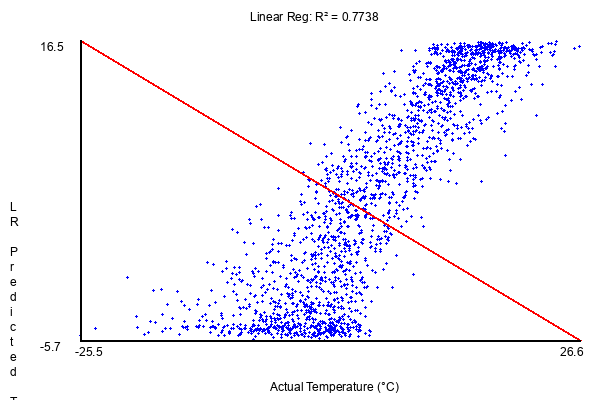
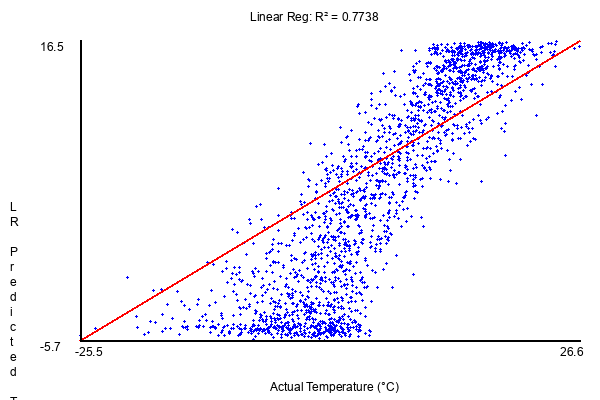
Updates

diff --git a/workbook/ch08/ai/ml/mlp/uppsala_tm_1722-2022/mlp.py b/workbook/ch08/ai/ml/mlp/uppsala_tm_1722-2022/mlp.py
@@ -284,10 +284,11 @@ def create_scatter_plot(x_data, y_data, title, xlabel, ylabel, width=600, height
         x, y = int(x_plot[i]), int(y_plot[i])
         draw.ellipse([x-1, y-1, x+1, y+1], fill='blue')
     
-    # Draw diagonal line (perfect prediction)
+    # Draw diagonal line (perfect prediction) - FIXED
+    # Perfect prediction line should go from bottom-left to top-right
     x_min, x_max = margin_left, margin_left + plot_width
-    y_min, y_max = margin_top + plot_height, margin_top
-    draw.line([x_min, y_max, x_max, y_min], fill='red', width=2)
+    y_max, y_min = margin_top + plot_height, margin_top  # Note: y_max is bottom, y_min is top
+    draw.line([x_min, y_max, x_max, y_min], fill='red', width=2)  # Bottom-left to top-right
     
     # Draw axes
     draw.line([margin_left, margin_top, margin_left, margin_top + plot_height], fill='black', width=2)
@@ -328,7 +329,8 @@ def create_line_plot(x_data, y_data, title, xlabel, ylabel, width=600, height=40
     
     # Normalize data to plot area
     x_plot = normalize_data(x_data, margin_left, margin_left + plot_width)
-    y_plot = normalize_data(y_data, margin_top + plot_height, margin_top)
+    # FIXED: Invert the y-axis mapping so higher values appear at top, lower at bottom
+    y_plot = normalize_data(y_data, margin_top, margin_top + plot_height)
     
     # Draw line
     points = [(int(x_plot[i]), int(y_plot[i])) for i in range(len(x_plot))]
@@ -342,6 +344,23 @@ def create_line_plot(x_data, y_data, title, xlabel, ylabel, width=600, height=40
     # Add labels
     draw.text((width//2 - 50, 10), title, fill='black', font=font)
     draw.text((width//2 - 30, height - 20), xlabel, fill='black', font=font)
+    
+    # Y-axis label (rotated text approximation)
+    y_label_y = height // 2
+    for i, char in enumerate(ylabel):
+        draw.text((10, y_label_y + i * 15), char, fill='black', font=font)
+    
+    # Add axis values - FIXED: Update to match the corrected y-axis
+    x_min_val, x_max_val = np.min(x_data), np.max(x_data)
+    y_min_val, y_max_val = np.min(y_data), np.max(y_data)
+    
+    # X-axis labels
+    draw.text((margin_left - 5, margin_top + plot_height + 5), f'{x_min_val:.1f}', fill='black', font=font)
+    draw.text((margin_left + plot_width - 20, margin_top + plot_height + 5), f'{x_max_val:.1f}', fill='black', font=font)
+    
+    # Y-axis labels (corrected: min at bottom, max at top)
+    draw.text((margin_left - 40, margin_top + plot_height), f'{y_min_val:.4f}', fill='black', font=font)  # Bottom = min
+    draw.text((margin_left - 40, margin_top), f'{y_max_val:.4f}', fill='black', font=font)  # Top = max
     
     return img
 

diff --git a/workbook/ch08/ai/ml/mlp/uppsala_tm_1722-2022/README.md b/workbook/ch08/ai/ml/mlp/uppsala_tm_1722-2022/README.md
@@ -1,0 +1,118 @@
+
+## MLP and Linear Regression
+
+The provided Python code implements a machine learning pipeline for predicting temperature using
+a *Multilayer Perceptron* (MLP) and *Linear Regression*, applied to a temperature dataset (in
+this case real). The pedagogical value lies in its comprehensive demonstration of key machine
+learning concepts, data preprocessing, model evaluation, and visualisation techniques. 
+(Also see [linear regression](./../../linear/).)
+
+The temperature data used in this project comes from the official long-term temperature series
+for Uppsala, Sweden, maintained by the Swedish Meteorological and Hydrological Institute (SMHI):
+https://www.smhi.se/data/temperatur-och-vind/temperatur/uppsalas-temperaturserie
+
+Additional historical background, including commentary on the data’s continuity and adjustments
+over time, is available here: http://celsius.met.uu.se/default.aspx?pageid=31
+
+You may recognise the name Celsius as the unit of temperature measurement. Anders Celsius, the
+Swedish astronomer and physicist who proposed the Celsius scale, was also actively involved in
+early temperature measurements in Uppsala, where he lived and worked. The temperature series
+from Uppsala is one of the longest continuous records in the world and has been used in numerous
+studies of historical climate trends.
+
+
+### Multilayer Perceptron (MLP)
+
+- *Definition*: An MLP is a type of artificial neural network consisting of multiple layers of
+  interconnected nodes (neurons). It includes an input layer, one or more hidden layers with
+  non-linear activation functions (e.g., ReLU), and an output layer. MLPs are used for both
+  regression and classification tasks.
+
+- *How It Works*:
+  - *Input Layer*: Takes the feature vector (e.g., year, month, day_of_year, etc.).
+  - *Hidden Layers*: Apply weighted transformations and non-linear activations to capture
+    complex patterns in the data.
+  - *Output Layer*: Produces a single value for regression (e.g., predicted temperature).
+  - *Training*: Uses backpropagation and an optimiser (e.g., Adam) to minimize a loss function
+    (e.g., MSE) by adjusting weights.
+
+- *Key Features*:
+  - Can model non-linear relationships, making it suitable for complex datasets.
+  - Requires careful tuning of hyperparameters (e.g., number of layers, neurons, learning rate).
+  - Prone to overfitting, mitigated by techniques like dropout and early stopping.
+
+- *In the Code*: The MLP is implemented with three hidden layers (64, 32, 16 neurons), ReLU activation,
+  dropout for regularisation, and early stopping to prevent overfitting. It’s trained on scaled features
+  to predict temperature.
+
+
+### Linear Regression
+
+- *Definition*: Linear Regression is a statistical model that predicts a continuous output variable
+  as a linear combination of input features. It assumes a linear relationship between features and the target.
+
+- *How It Works*:
+  - Fits a line (or hyperplane in higher dimensions) to the data by minimising the sum of squared errors.
+  - Model equation: $y = w_0 + w_1x_1 + w_2x_2 + \dots + w_nx_n$, where $w_i$ are weights, $x_i$ are features,
+    and $y$ is the predicted value.
+  - Coefficients ($w_i$) indicate feature importance.
+
+- *Key Features*:
+  - Simple, interpretable, and computationally efficient.
+  - Limited to linear relationships, so it may underfit complex data.
+  - Less prone to overfitting compared to MLPs.
+
+- *In the Code*: Linear Regression is used as a baseline model, trained on the same scaled features as the
+  MLP. Its coefficients are analysed to identify the most important features (e.g., seasonal or temporal features).
+
+
+### Comparison in the Code
+
+- *Purpose*: The code compares MLP and Linear Regression to determine if the MLP's complexity improves temperature
+  prediction over the simpler Linear Regression model.
+
+- *Findings*:
+  - *Performance*: The R² and MAE bar charts (`r2_comparison.png`, `mae_comparison.png`) show whether the MLP
+    outperforms Linear Regression. If the MLP’s metrics are only marginally better, it suggests overengineering (or
+    the choice was too advanced), as the simpler model may suffice.
+  - *Feature Importance*: The Linear Regression model provides interpretable coefficients, showing which features
+    (e.g., `month_sin`, `day_cos`) drive predictions, while the MLP’s complexity makes feature importance harder
+    to interpret.
+  - *Overfitting*: The code compares training and test metrics for both models. A large gap between training and
+    test performance for the MLP indicates overfitting, while Linear Regression is less likely to overfit due to
+    its simplicity.
+
+- *Pedagogical Insight*: This comparison teaches students of these implementations the importance of balancing
+  model complexity with performance, using a simple baseline to evaluate whether complex models are really necessary.
+
+
+### Specific Insights from the Code
+
+- *MLP vs. Linear Regression*: The code suggests that the MLP may capture non-linear patterns (e.g., complex
+  seasonal interactions), but if the data is largely explained by linear trends (e.g., seasonal cycles or warming
+  trends), Linear Regression may perform comparably with less computational cost.
+
+- *Overengineering*: The MLP’s architecture (three hidden layers, dropout, early stopping) is relatively complex
+  for a temperature prediction task, which may be adequately modeled by Linear Regression, especially if seasonal
+  features (`month_sin`, `day_cos`) capture most of the variance.
+
+- *Visualisations*: The scatter plots and histograms allow students to visually assess whether the MLP’s predictions
+  are more accurate or if residuals show patterns that Linear Regression misses.
+
+- *Experimentation*: The code encourages experimenting with MLP architecture or feature sets, teaching students to
+  test hypotheses about model design and feature importance.
+
+
+### Conclusion
+
+The code teaches you to:
+- Prepare and engineer features for temporal data.
+- Implement and compare simple (Linear Regression) and complex (MLP) models.
+- Evaluate models using standard metrics and visualisations.
+- Critically assess whether complex models are justified or if simpler models suffice.
+
+The visualisations (scatter plots, histograms, bar charts) provide intuitive insights into model
+performance, error distributions, and training dynamics, making abstract concepts tangible. The
+comparison between MLP and Linear Regression highlights the trade-offs between model complexity
+and performance, addressing interest in evaluating overengineering in machine learning.
+

diff --git a/workbook/ch08/ai/ml/mlp/uppsala_tm_1722-2022/plots/README.md b/workbook/ch08/ai/ml/mlp/uppsala_tm_1722-2022/plots/README.md
@@ -1,0 +1,39 @@
+
+### Diagrams
+
+The code generates six visualisations in the `plots/` (this) directory, each serving a specific pedagogical purpose:
+
+1. *Training Loss Plot (`training_loss.png`)*:
+   - *Type*: Line plot
+   - *Purpose*: Shows the MLP's training loss (MSE) over epochs, illustrating how the model converges during training.
+     It helps you understand the training process and the effect of early stopping.
+   - *Pedagogical Value*: Teaches students (you) to monitor training progress and detect convergence or overfitting
+     by comparing training and validation loss (if available).
+
+2. *MLP Predictions vs. Actual Scatter Plot (`mlp_predictions.png`)*:
+   - *Type*: Scatter plot
+   - *Purpose*: Plots predicted temperatures (MLP) against actual temperatures for the test set, with a diagonal line
+     indicating perfect predictions. The R² score is included in the title.
+   - *Pedagogical Value*: Visualise prediction accuracy and identify patterns in errors (e.g., systematic biases
+     or outliers).
+
+3. *Linear Regression Predictions vs. Actual Scatter Plot (`lr_predictions.png`)*:
+   - *Type*: Scatter plot
+   - *Purpose*: Similar to the MLP scatter plot, but for Linear Regression predictions, allowing direct comparison with the MLP.
+   - *Pedagogical Value*: Enables students to compare the predictive performance of a simple linear model versus a complex neural network, highlighting differences in fit.
+
+4. *Residuals Histogram (`residuals_histogram.png`)*:
+   - *Type*: Histogram
+   - *Purpose*: Shows the distribution of MLP residuals (actual - predicted temperatures), indicating whether errors are normally distributed or skewed.
+   - *Pedagogical Value*: Teaches students to analyze model errors, assess model fit, and identify potential biases or areas where the model struggles.
+
+5. *Model Comparison - R² Scores (`r2_comparison.png`)*:
+   - *Type*: Bar chart
+   - *Purpose*: Compares the R² scores of MLP and Linear Regression, showing which model explains more variance in the test data.
+   - *Pedagogical Value*: Helps students understand the goodness-of-fit metric (R²) and compare model effectiveness visually.
+
+6. *Model Comparison - MAE Scores (`mae_comparison.png`)*:
+   - *Type*: Bar chart
+   - *Purpose*: Compares the Mean Absolute Error (MAE) of MLP and Linear Regression, showing which model has lower average prediction errors.
+   - *Pedagogical Value*: Teaches students to interpret MAE as a measure of prediction accuracy and compare models based on error magnitude.
+
